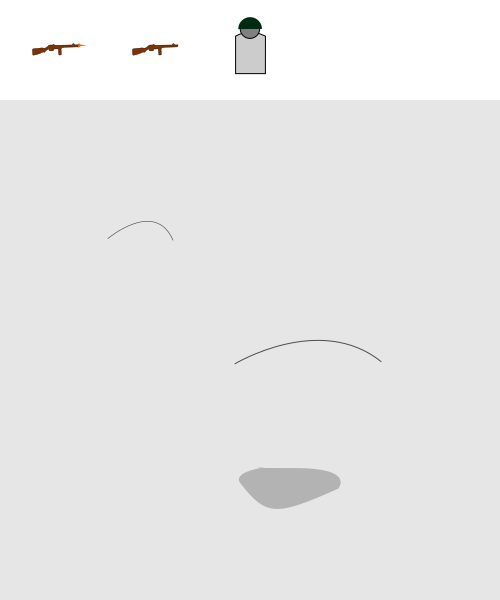
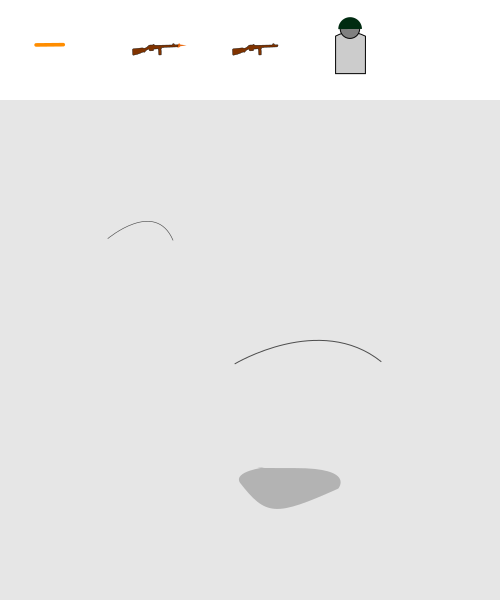
added logic for firing bullets from the gun
spawn bullets according to the rate of fire and add them all to an array
of moving bullets. the gameloop will then move each of the objects
contain within the array and remove the object that reach the border
edge

Changed region(s): [[0.45, 0.03, 0.57, 0.15], [0.66, 0.03, 0.75, 0.15], [0.06, 0.06, 0.18, 0.09]]

diff --git a/static/main.js b/static/main.js
@@ -575,7 +575,7 @@ eval("__webpack_require__.r(__webpack_exports__);\n/* harmony export */ __webpac
 /***/ ((__unused_webpack_module, __webpack_exports__, __webpack_require__) => {
 
 "use strict";
-eval("__webpack_require__.r(__webpack_exports__);\n/* harmony import */ var pixi_js__WEBPACK_IMPORTED_MODULE_0__ = __webpack_require__(/*! pixi.js */ \"./node_modules/pixi.js/lib/pixi.es.js\");\n/* harmony import */ var _keyboard__WEBPACK_IMPORTED_MODULE_1__ = __webpack_require__(/*! ./keyboard */ \"./src/keyboard.js\");\n\n\n\n//aliases\nconst Application = pixi_js__WEBPACK_IMPORTED_MODULE_0__.Application,\n    loader = pixi_js__WEBPACK_IMPORTED_MODULE_0__.Loader.shared,\n    resources = pixi_js__WEBPACK_IMPORTED_MODULE_0__.Loader.shared.resources,\n    Sprite = pixi_js__WEBPACK_IMPORTED_MODULE_0__.Sprite,\n    Container = pixi_js__WEBPACK_IMPORTED_MODULE_0__.Container;\n    \n\nconst app = new Application({width: 500, height: 500});\nconsole.log(app);\n\ndocument.body.appendChild(app.view);\nlet tank, state, sovSoldier, currentInterval;\nconst ppshSound = document.querySelector('#ppsh');\n\n//add sounds\n//sounds.load(['wpnfire_ppsh_plyr_blnc_ed3.wav']);\n//sounds.whenLoaded = () => console.log('sound loaded');\n//const ppshFire = sounds['wpnfire_ppsh_plyr_blnc_ed3.wav'];\n\n//add onprogresslistener\nloader.onProgress.add(loading);\n//load an image to WebGL texture\nloader\n    .add('static/assets/tank.png')\n    .add('static/assets/soviet.json')\n    .load(setup);\n\n//log when loading\nfunction loading(loader, resources){\n    console.log(`loading ${resources.url}`);\n    console.log(`progress ${loader.progress} %`)\n}\n\n//what to do when loaded\nfunction setup() {\n    tank = new pixi_js__WEBPACK_IMPORTED_MODULE_0__.Sprite(\n        resources['static/assets/tank.png'].texture\n    );\n    const id = resources['static/assets/soviet.json'].textures;\n    const background = new Sprite(id['snowbg.png']);\n    \n    const ppsh = firearm([id['ppsh.png'], id['ppsh-fire.png']], 20, ppshSound);\n    console.log(ppsh.sound);\n    ppsh.sound.volume = 0.05;\n    const body = new Sprite(id['soviet-soldier.png']);\n    sovSoldier = gruppen([body, ppsh]);\n    \n    \n\n    console.log(sovSoldier.children);\n\n    app.stage.addChild(background);  \n\n    //controls \n    const up = (0,_keyboard__WEBPACK_IMPORTED_MODULE_1__[\"default\"])(87),\n      down = (0,_keyboard__WEBPACK_IMPORTED_MODULE_1__[\"default\"])(83),\n      left = (0,_keyboard__WEBPACK_IMPORTED_MODULE_1__[\"default\"])(65),\n      right = (0,_keyboard__WEBPACK_IMPORTED_MODULE_1__[\"default\"])(68),\n      space = (0,_keyboard__WEBPACK_IMPORTED_MODULE_1__[\"default\"])(32);\n      \n    \n    \n    app.stage.addChild(sovSoldier);\n    \n    \n    sovSoldier.position.set(100, 250);\n    sovSoldier.vx = 0;\n    sovSoldier.vy = 0;\n\n    //controls controller\n    up.press = () => {\n      sovSoldier.vy = -1.5;\n    }\n\n    up.release = () => {\n      if(!down.isDown) {\n        sovSoldier.vy = 0;\n      } else {\n        sovSoldier.vy = 1.5;\n      }\n    }\n    \n    down.press = () => {\n      sovSoldier.vy = 1.5;\n    }\n\n    down.release = () => {\n      if(!up.isDown) {\n        sovSoldier.vy = 0;\n      } else {\n        sovSoldier.vy = -1.5;\n      }\n      console.log(sovSoldier.y);\n    }\n    \n    right.press = () => {\n      sovSoldier.vx = 1.5;\n    }\n\n    right.release = () => {\n      if(!left.isDown) {\n        sovSoldier.vx = 0;\n      } else {\n        sovSoldier.vx = -1.5;\n      }\n    }\n    \n    left.press = () => {\n      sovSoldier.vx = -1.5;\n    }\n\n    left.release = () => {\n      if(!right.isDown) {\n        sovSoldier.vx = 0\n      } else {\n        sovSoldier.vx = 1.5;\n      }\n    }\n\n    space.press = () => {\n      ppsh.loop = true;\n      ppsh.animationSpeed = 0.5;\n      ppsh.play();\n      currentInterval = setInterval(() => {\n        ppsh.sound.currentTime = 0;\n        ppsh.sound.play();\n      }, 1000/ppsh.rps);\n\n      \n    }\n\n    space.release = () => {\n      clearInterval(currentInterval);\n      ppsh.gotoAndStop(0);\n    }\n    \n    state = play;\n    //animate tank move right 60 fps\n    app.ticker.add((delta) => gameLoop(delta));\n    \n\n}\n\nfunction gameLoop(delta) {\n    state(delta);\n}\n\nfunction play(delta) {\n    sovSoldier.y += sovSoldier.vy;\n    sovSoldier.x += sovSoldier.vx;\n}\n\nfunction stop(delta) {\n    //empty so when the game state is stop nothing happened\n}\n//either this or setTimeout but the dlay multiplied by the limit to create delayed loop\n//function rotateForever(sprite){\n//    setInterval(() => sprite.angle += 10, 100);\n//}\n\n\n\n//make a grouped sprite\nfunction gruppen(spriteArray) {\n  let group = new Container()\n  spriteArray.forEach(element => {\n    group.addChild(element)\n  });\n  return group;\n}\n\n\n\n//make a gun constructor that inherit animatedsprite\nfunction firearm(textureArray, rps, sound) {\n  let anim = new pixi_js__WEBPACK_IMPORTED_MODULE_0__.AnimatedSprite(textureArray);\n  \n  anim.rps = rps;\n  anim.sound = sound;\n  return anim;\n}\n\n//# sourceURL=webpack://test-game/./src/main.js?");
+eval("__webpack_require__.r(__webpack_exports__);\n/* harmony import */ var pixi_js__WEBPACK_IMPORTED_MODULE_0__ = __webpack_require__(/*! pixi.js */ \"./node_modules/pixi.js/lib/pixi.es.js\");\n/* harmony import */ var _keyboard__WEBPACK_IMPORTED_MODULE_1__ = __webpack_require__(/*! ./keyboard */ \"./src/keyboard.js\");\n\n\n\n//aliases\nconst Application = pixi_js__WEBPACK_IMPORTED_MODULE_0__.Application,\n    loader = pixi_js__WEBPACK_IMPORTED_MODULE_0__.Loader.shared,\n    resources = pixi_js__WEBPACK_IMPORTED_MODULE_0__.Loader.shared.resources,\n    Sprite = pixi_js__WEBPACK_IMPORTED_MODULE_0__.Sprite,\n    Container = pixi_js__WEBPACK_IMPORTED_MODULE_0__.Container;\n    \n\nconst app = new Application({width: 500, height: 500});\nconsole.log(app);\n\ndocument.body.appendChild(app.view);\nlet tank, state, sovSoldier, currentInterval, bullet;\nlet movingBullets = [];\nconst ppshSound = document.querySelector('#ppsh');\n\n//add sounds\n//sounds.load(['wpnfire_ppsh_plyr_blnc_ed3.wav']);\n//sounds.whenLoaded = () => console.log('sound loaded');\n//const ppshFire = sounds['wpnfire_ppsh_plyr_blnc_ed3.wav'];\n\n//add onprogresslistener\nloader.onProgress.add(loading);\n//load an image to WebGL texture\nloader\n    .add('static/assets/tank.png')\n    .add('static/assets/soviet.json')\n    .load(setup);\n\n//log when loading\nfunction loading(loader, resources){\n    console.log(`loading ${resources.url}`);\n    console.log(`progress ${loader.progress} %`)\n}\n\n//what to do when loaded\nfunction setup() {\n    tank = new pixi_js__WEBPACK_IMPORTED_MODULE_0__.Sprite(\n        resources['static/assets/tank.png'].texture\n    );\n    \n    const id = resources['static/assets/soviet.json'].textures;\n    const background = new Sprite(id['snowbg.png']);\n    \n    const messageStyle = new pixi_js__WEBPACK_IMPORTED_MODULE_0__.TextStyle({\n      fontSize: 18,\n      fontFamily: \"Helvetica\",\n    })\n    const message = new pixi_js__WEBPACK_IMPORTED_MODULE_0__.Text(\"John Mctavish, 62nd Guards Rifle Division\", messageStyle);\n    message.y = 450;\n    \n\n    const ppsh = firearm([id['ppsh.png'], id['ppsh-fire.png']], 20, ppshSound);\n    console.log(ppsh.sound);\n    ppsh.sound.volume = 0.05;\n    const body = new Sprite(id['soviet-soldier.png']);\n    sovSoldier = gruppen([body, ppsh]);\n    \n    bullet = new Sprite(id[\"bullet.png\"]);\n\n    console.log(sovSoldier.children);\n\n    app.stage.addChild(background);  \n    app.stage.addChild(message);\n    //controls \n    const up = (0,_keyboard__WEBPACK_IMPORTED_MODULE_1__[\"default\"])(87),\n      down = (0,_keyboard__WEBPACK_IMPORTED_MODULE_1__[\"default\"])(83),\n      left = (0,_keyboard__WEBPACK_IMPORTED_MODULE_1__[\"default\"])(65),\n      right = (0,_keyboard__WEBPACK_IMPORTED_MODULE_1__[\"default\"])(68),\n      space = (0,_keyboard__WEBPACK_IMPORTED_MODULE_1__[\"default\"])(32);\n      \n    \n    app.stage.addChild(sovSoldier);\n    \n    \n    sovSoldier.position.set(100, 250);\n    sovSoldier.vx = 0;\n    sovSoldier.vy = 0;\n\n    //controls controller\n    up.press = () => {\n      sovSoldier.vy = -1.5;\n    }\n\n    up.release = () => {\n      if(!down.isDown) {\n        sovSoldier.vy = 0;\n      } else {\n        sovSoldier.vy = 1.5;\n      }\n    }\n    \n    down.press = () => {\n      sovSoldier.vy = 1.5;\n    }\n\n    down.release = () => {\n      if(!up.isDown) {\n        sovSoldier.vy = 0;\n      } else {\n        sovSoldier.vy = -1.5;\n      }\n      console.log(sovSoldier.y);\n    }\n    \n    right.press = () => {\n      sovSoldier.vx = 1.5;\n    }\n\n    right.release = () => {\n      if(!left.isDown) {\n        sovSoldier.vx = 0;\n      } else {\n        sovSoldier.vx = -1.5;\n      }\n    }\n    \n    left.press = () => {\n      sovSoldier.vx = -1.5;\n    }\n\n    left.release = () => {\n      if(!right.isDown) {\n        sovSoldier.vx = 0\n      } else {\n        sovSoldier.vx = 1.5;\n      }\n    }\n\n    space.press = () => {\n      ppsh.loop = true;\n      ppsh.animationSpeed = 0.5;\n      ppsh.play();\n      currentInterval = setInterval(() => {\n        ppsh.sound.currentTime = 0;\n        ppsh.sound.play();\n        \n        let bullet = liveBullet(ppsh, 6);\n        app.stage.addChild(bullet);\n        movingBullets.push(bullet);\n      }, 1000/ppsh.rps);\n\n      \n    }\n\n    space.release = () => {\n      console.log(movingBullets);\n      \n      clearInterval(currentInterval);\n      ppsh.gotoAndStop(0);\n      \n    }\n    \n    state = play;\n    //animate tank move right 60 fps\n    app.ticker.add((delta) => gameLoop(delta));\n    \n\n}\n\nfunction gameLoop(delta) {\n    state(delta);\n}\n\nfunction play(delta) {\n    sovSoldier.y += sovSoldier.vy;\n    sovSoldier.x += sovSoldier.vx;\n    movingBullets.forEach((e, index) => {\n      if (e.x < e.limitx) {\n        e.x += e.vx;\n      } else if (e.x > e.limitx) {\n        movingBullets.splice(index, 1);\n        app.stage.removeChild(e);\n      }\n    })\n}\n\nfunction stop(delta) {\n    //empty so when the game state is stop nothing happened\n}\n//either this or setTimeout but the dlay multiplied by the limit to create delayed loop\n//function rotateForever(sprite){\n//    setInterval(() => sprite.angle += 10, 100);\n//}\n\n\n\n//make a grouped sprite\nfunction gruppen(spriteArray) {\n  let group = new Container()\n  spriteArray.forEach(element => {\n    group.addChild(element)\n  });\n  return group;\n}\n\nfunction move(sprite, vx, vy) {\n  //inside the gameloop move the object at their velocity props\n}\n\n//make a gun constructor that inherit animatedsprite\nfunction firearm(textureArray, rps, sound) {\n  let anim = new pixi_js__WEBPACK_IMPORTED_MODULE_0__.AnimatedSprite(textureArray);\n  \n  anim.rps = rps;\n  anim.sound = sound;\n  anim.firing = false;\n  return anim;\n}\n\nfunction moveBullet(object) {\n  \n}\n\nfunction liveBullet(firearm, velocity) {\n  let firearmPos = firearm.parent.toGlobal(firearm.position);\n  const liveProps = {\n    x : firearmPos.x + firearm.width / 2,\n    y : firearmPos.y,\n    vx : velocity,\n    limitx : 495\n  }\n  return Object.assign(bullet, liveProps);\n  //return {x, y, vx, limitx};\n}\n\n//# sourceURL=webpack://test-game/./src/main.js?");
 
 /***/ })
 

diff --git a/src/main.js b/src/main.js
@@ -13,7 +13,8 @@ const app = new Application({width: 500, height: 500});
 console.log(app);
 
 document.body.appendChild(app.view);
-let tank, state, sovSoldier, currentInterval;
+let tank, state, sovSoldier, currentInterval, bullet;
+let movingBullets = [];
 const ppshSound = document.querySelector('#ppsh');
 
 //add sounds
@@ -40,21 +41,30 @@ function setup() {
     tank = new PIXI.Sprite(
         resources['static/assets/tank.png'].texture
     );
+    
     const id = resources['static/assets/soviet.json'].textures;
     const background = new Sprite(id['snowbg.png']);
     
+    const messageStyle = new PIXI.TextStyle({
+      fontSize: 18,
+      fontFamily: "Helvetica",
+    })
+    const message = new PIXI.Text("John Mctavish, 62nd Guards Rifle Division", messageStyle);
+    message.y = 450;
+    
+
     const ppsh = firearm([id['ppsh.png'], id['ppsh-fire.png']], 20, ppshSound);
     console.log(ppsh.sound);
     ppsh.sound.volume = 0.05;
     const body = new Sprite(id['soviet-soldier.png']);
     sovSoldier = gruppen([body, ppsh]);
     
-    
+    bullet = new Sprite(id["bullet.png"]);
 
     console.log(sovSoldier.children);
 
     app.stage.addChild(background);  
-
+    app.stage.addChild(message);
     //controls 
     const up = keyboard(87),
       down = keyboard(83),
@@ -62,7 +72,6 @@ function setup() {
       right = keyboard(68),
       space = keyboard(32);
       
-    
     
     app.stage.addChild(sovSoldier);
     
@@ -128,14 +137,21 @@ function setup() {
       currentInterval = setInterval(() => {
         ppsh.sound.currentTime = 0;
         ppsh.sound.play();
+        
+        let bullet = liveBullet(ppsh, 6);
+        app.stage.addChild(bullet);
+        movingBullets.push(bullet);
       }, 1000/ppsh.rps);
 
       
     }
 
     space.release = () => {
+      console.log(movingBullets);
+      
       clearInterval(currentInterval);
       ppsh.gotoAndStop(0);
+      
     }
     
     state = play;
@@ -152,6 +168,14 @@ function gameLoop(delta) {
 function play(delta) {
     sovSoldier.y += sovSoldier.vy;
     sovSoldier.x += sovSoldier.vx;
+    movingBullets.forEach((e, index) => {
+      if (e.x < e.limitx) {
+        e.x += e.vx;
+      } else if (e.x > e.limitx) {
+        movingBullets.splice(index, 1);
+        app.stage.removeChild(e);
+      }
+    })
 }
 
 function stop(delta) {
@@ -173,7 +197,9 @@ function gruppen(spriteArray) {
   return group;
 }
 
-
+function move(sprite, vx, vy) {
+  //inside the gameloop move the object at their velocity props
+}
 
 //make a gun constructor that inherit animatedsprite
 function firearm(textureArray, rps, sound) {
@@ -181,5 +207,22 @@ function firearm(textureArray, rps, sound) {
   
   anim.rps = rps;
   anim.sound = sound;
+  anim.firing = false;
   return anim;
+}
+
+function moveBullet(object) {
+  
+}
+
+function liveBullet(firearm, velocity) {
+  let firearmPos = firearm.parent.toGlobal(firearm.position);
+  const liveProps = {
+    x : firearmPos.x + firearm.width / 2,
+    y : firearmPos.y,
+    vx : velocity,
+    limitx : 495
+  }
+  return Object.assign(bullet, liveProps);
+  //return {x, y, vx, limitx};
 }
